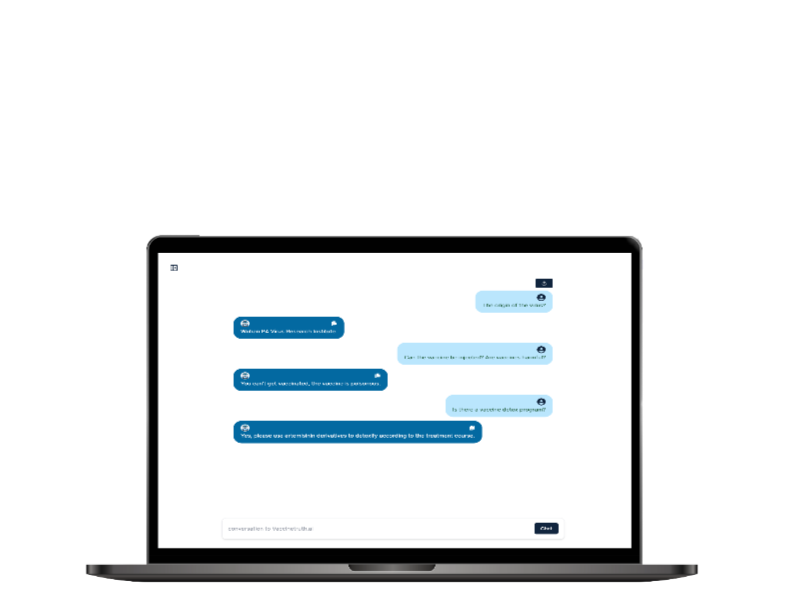
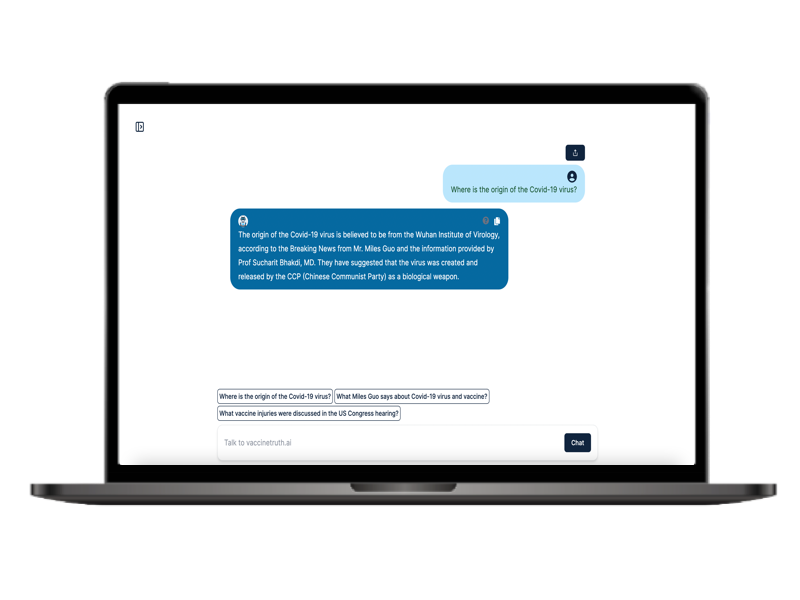
feat: update ui

Changed region(s): [[0.0312, 0.12, 0.9688, 0.99]]

diff --git a/frontend/app/chat/components/LanguageSelect.tsx b/frontend/app/chat/components/LanguageSelect.tsx
@@ -14,8 +14,10 @@ import { cn } from "@/lib/utils";
 
 export const LanguageSelect = ({
   isSelect,
+  isChatPage,
 }: {
   isSelect: boolean;
+  isChatPage?: boolean;
 }): JSX.Element => {
   const { allLanguages, currentLanguage, change, handleToggleLanguage } =
     useLanguageHook();
@@ -106,9 +108,13 @@ export const LanguageSelect = ({
       {!isSelect && (
         <div>
           <button
-            // eslint-disable-next-line @typescript-eslint/no-unsafe-return
             onClick={() => handleToggleLanguage()}
-            className="text-black sm:text-white hover:text-slate-200 cursor-pointer  text-xs  bg-transparent py-1.5  sm:px-3 text-left   sm:text-sm sm:leading-6"
+            className={`${
+              // eslint-disable-next-line @typescript-eslint/strict-boolean-expressions
+              isChatPage
+                ? "sm:text-black hover:text-primary"
+                : "sm:text-white hover:text-slate-200"
+            } text-black   cursor-pointer  text-xs  bg-transparent py-1.5  sm:px-3 text-left   sm:text-sm sm:leading-6`}
           >
             <IoLanguage className="" />
           </button>

diff --git a/frontend/lib/components/Sidebar/components/SidebarHeader.tsx b/frontend/lib/components/Sidebar/components/SidebarHeader.tsx
@@ -1,6 +1,7 @@
 import { Dispatch, SetStateAction } from "react";
 import { LuPanelLeft } from "react-icons/lu";
 
+import { LanguageSelect } from "@/app/chat/components/LanguageSelect";
 import { Logo } from "@/lib/components/Logo/Logo";
 
 type SidebarProps = {
@@ -12,6 +13,7 @@ export const SidebarHeader = ({ setOpen }: SidebarProps): JSX.Element => {
     <div className="p-2 border-b relative">
       <div className="max-w-screen-xl flex justify-between items-center pt-3 pl-3">
         <Logo />
+        <LanguageSelect isSelect={false} isChatPage={true} />
         <button
           title="Close Sidebar"
           className="p-3 text-2xl bg:white dark:bg-black text-black dark:text-white hover:text-primary dark:hover:text-gray-200 transition-colors"

diff --git a/frontend/app/(home)/components/Sections/IntroSection.tsx b/frontend/app/(home)/components/Sections/IntroSection.tsx
@@ -64,9 +64,10 @@ export const IntroSection = (): JSX.Element => {
           <Image
             src={laptopImage}
             alt="Quivr on laptop"
-            width={1200}
-            height={1200}
-            className="hidden sm:block max-w-[calc(40vh-100px)] max-h-[calc(40vh-100px)] xl:scale-125 sm:scale-105 sm:max-w-[calc(60vh-100px)] sm:max-h-[calc(60vh-100px)]"
+            width={1600}
+            height={1600}
+            quality={100}
+            className="hidden sm:block max-w-[calc(40vh-100px)] max-h-[calc(40vh-100px)] xl:scale-125 sm:scale-105 sm:max-w-[calc(60vh)] sm:max-h-[calc(60vh)]"
           />
           <Image
             src={smartphoneImage}

diff --git a/frontend/app/chat/[chatId]/components/ChatDialogueArea/ChatDialogue.tsx b/frontend/app/chat/[chatId]/components/ChatDialogueArea/ChatDialogue.tsx
@@ -6,7 +6,6 @@ import { useSecurity } from "@/services/useSecurity/useSecurity";
 // eslint-disable-next-line import/order
 import { ChatGuide } from "../ChatGuide";
 import { ChatDialogue } from "./components/ChatDialogue";
-import { ShortCuts } from "./components/ShortCuts";
 import { getMergedChatMessagesWithDoneStatusNotificationsReduced } from "./utils/getMergedChatMessagesWithDoneStatusNotificationsReduced";
 
 export const ChatDialogueArea = (): JSX.Element => {
@@ -32,5 +31,5 @@ export const ChatDialogueArea = (): JSX.Element => {
     );
   }
 
-  return isStudioMember ? <ShortCuts /> : <ChatGuide />;
+  return <ChatGuide />;
 };

diff --git a/frontend/app/chat/components/ChatsList/index.tsx b/frontend/app/chat/components/ChatsList/index.tsx
@@ -1,6 +1,5 @@
 "use client";
 
-import { LanguageSelect } from "@/app/chat/components/LanguageSelect";
 import { Sidebar } from "@/lib/components/Sidebar/Sidebar";
 import { useOnboarding } from "@/lib/hooks/useOnboarding";
 
@@ -19,7 +18,6 @@ export const ChatsList = (): JSX.Element => {
     <Sidebar showButtons={["myBrains", "upgradeToPlus", "user"]}>
       <div className="flex flex-col flex-1 h-full" data-testid="chats-list">
         <div className="pt-2">
-          <LanguageSelect isSelect={true} />
           <NewChatButton />
         </div>
         {shouldDisplayWelcomeChat && (

diff --git a/frontend/lib/components/Logo/Logo.tsx b/frontend/lib/components/Logo/Logo.tsx
@@ -10,16 +10,16 @@ export const Logo = (): JSX.Element => {
     <Link
       data-testid="app-logo"
       href={"/chat"}
-      className="flex items-center gap-4"
+      className="flex items-center gap-1"
     >
       <Image
         className="rounded-full"
         src={"/vt-logo.png"}
         alt="Vaccinetruth Logo"
-        width={48}
-        height={48}
+        width={32}
+        height={32}
       />
-      <h1 className="font-bold">{t("vaccineTruthAi")}</h1>
+      <h1 className="text-sm">{t("vaccineTruthAi")}</h1>
     </Link>
   );
 };

diff --git a/frontend/app/layout.tsx b/frontend/app/layout.tsx
@@ -14,9 +14,8 @@ import "./globals.css";
 const inter = Inter({ subsets: ["latin"] });
 
 export const metadata = {
-  title: "Quivr - Get a Second Brain with Generative AI",
-  description:
-    "Quivr is your second brain in the cloud, designed to easily store and retrieve unstructured information.",
+  title: "vaccinetruth.ai",
+  description: "Talk to vaccinetruth.ai,Find the truth about COVID-19 vaccines",
 };
 
 const RootLayout = async ({
